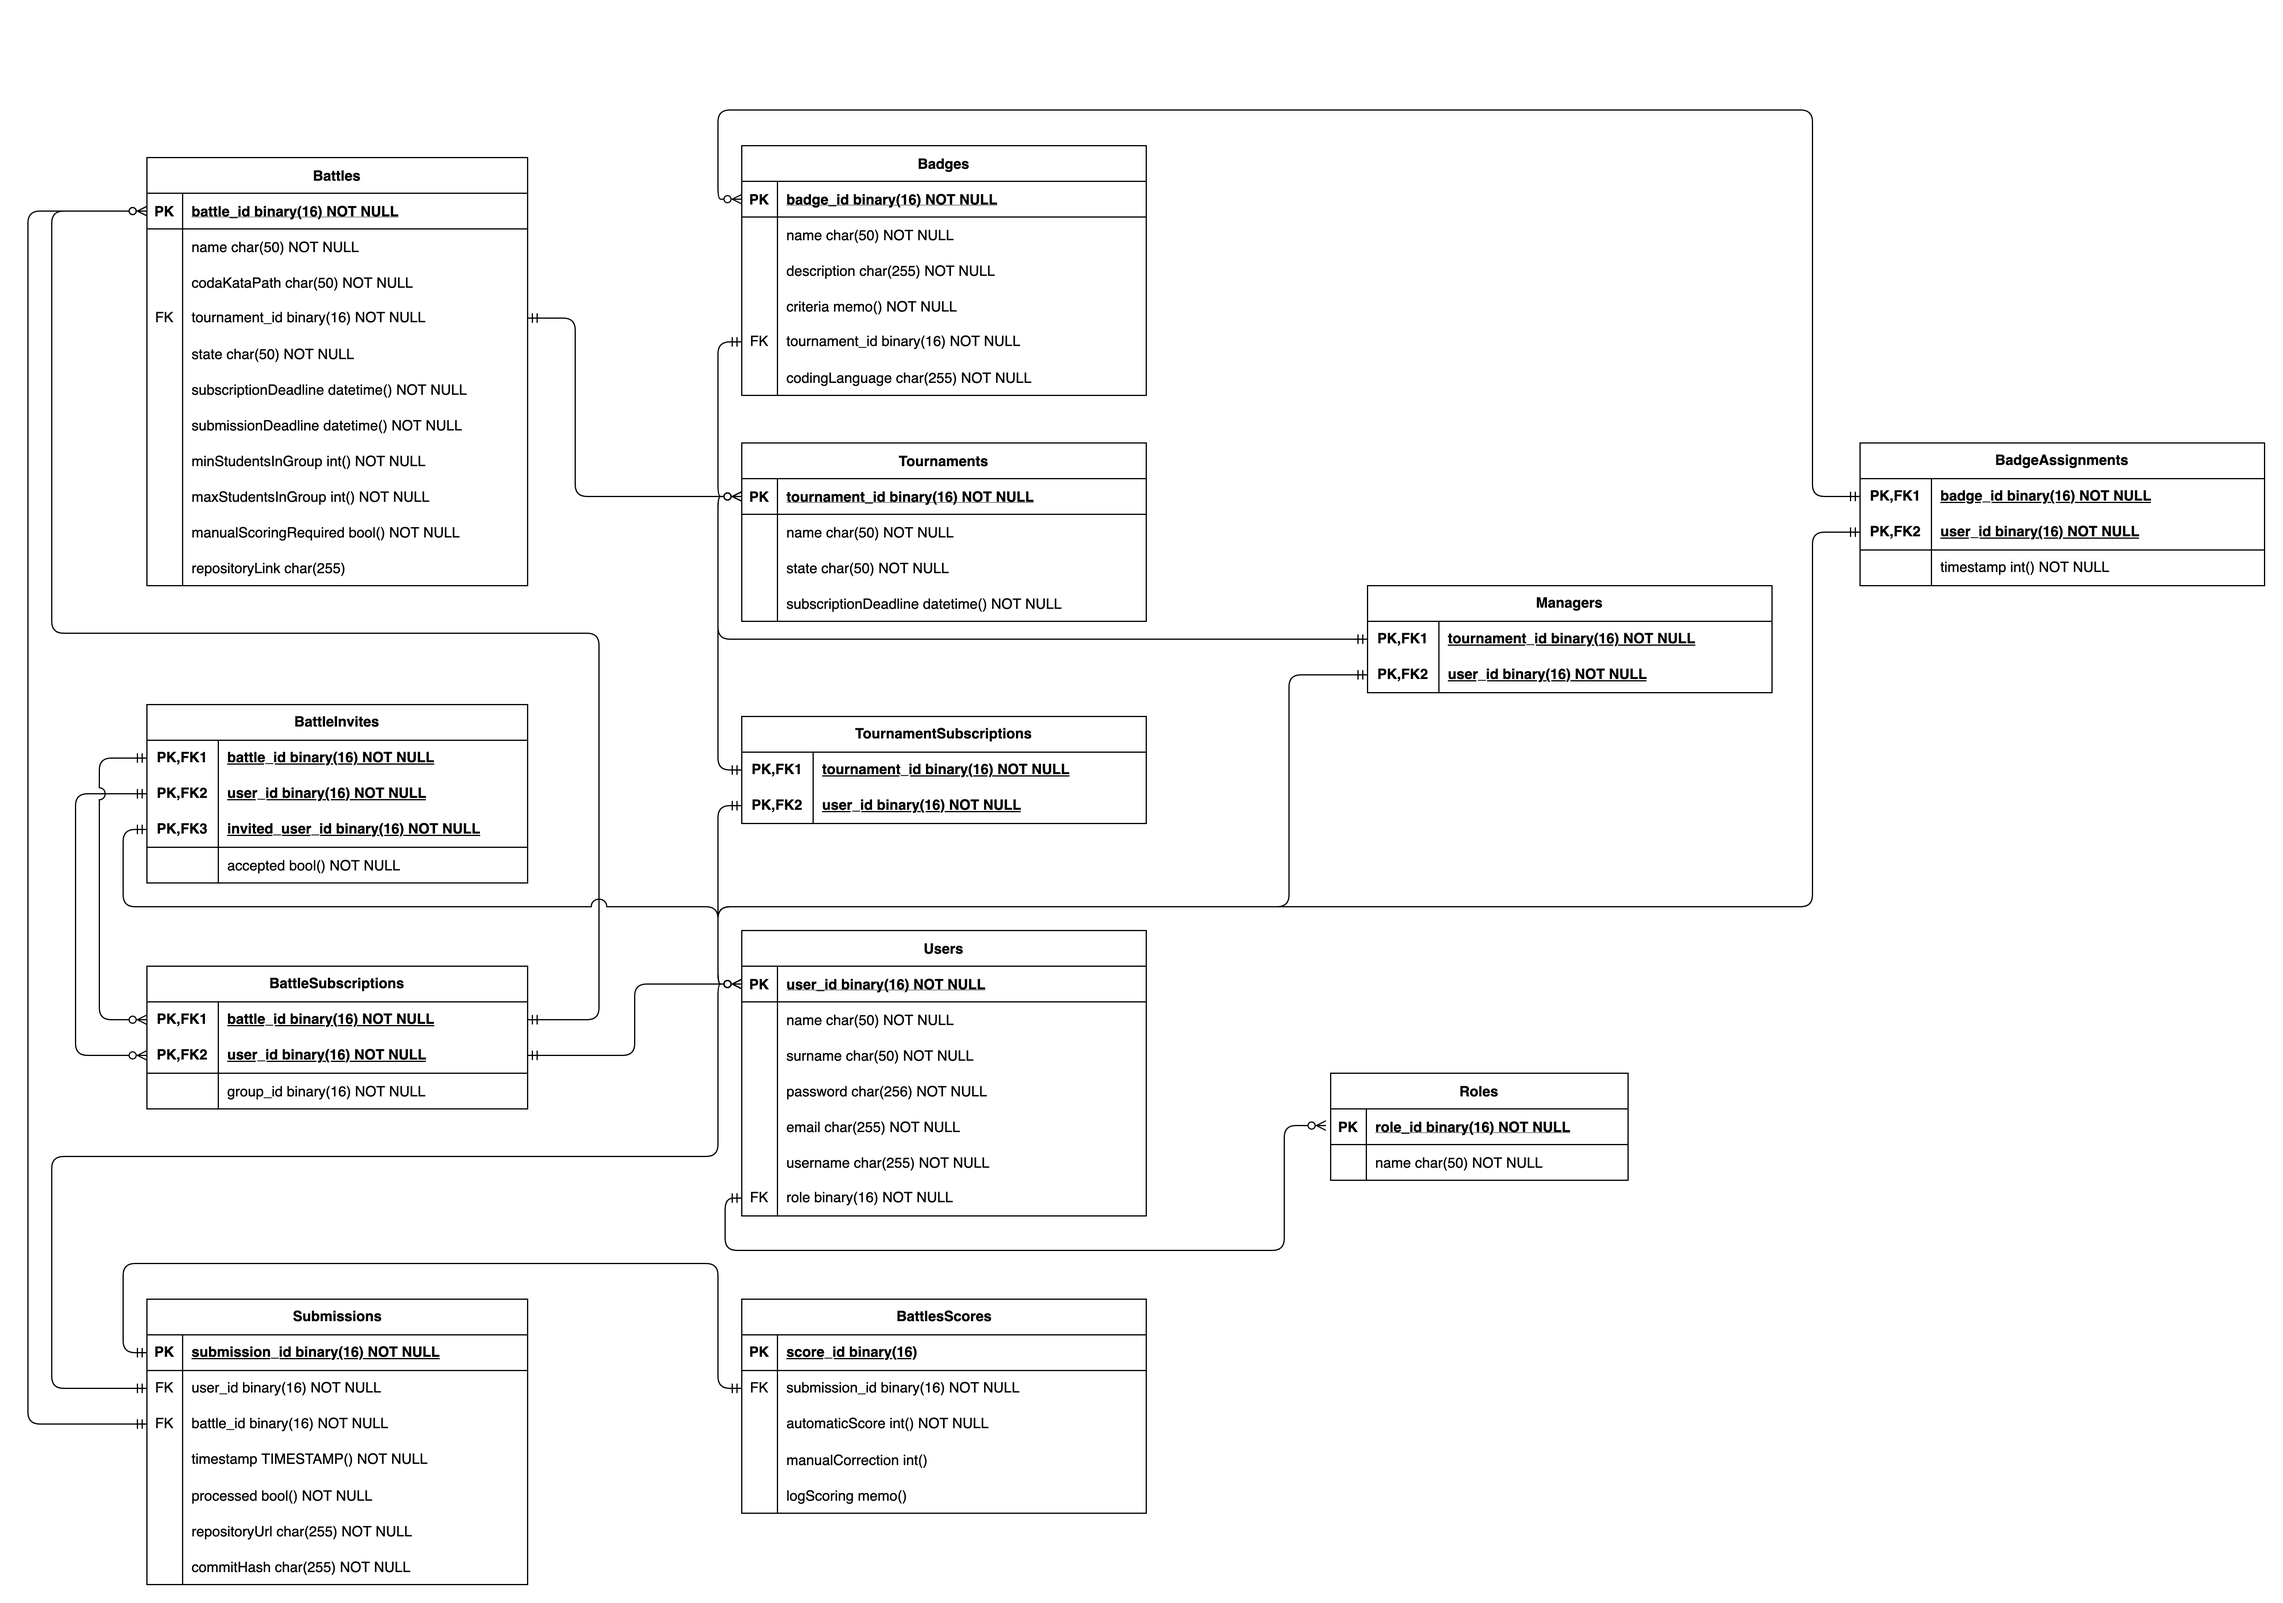
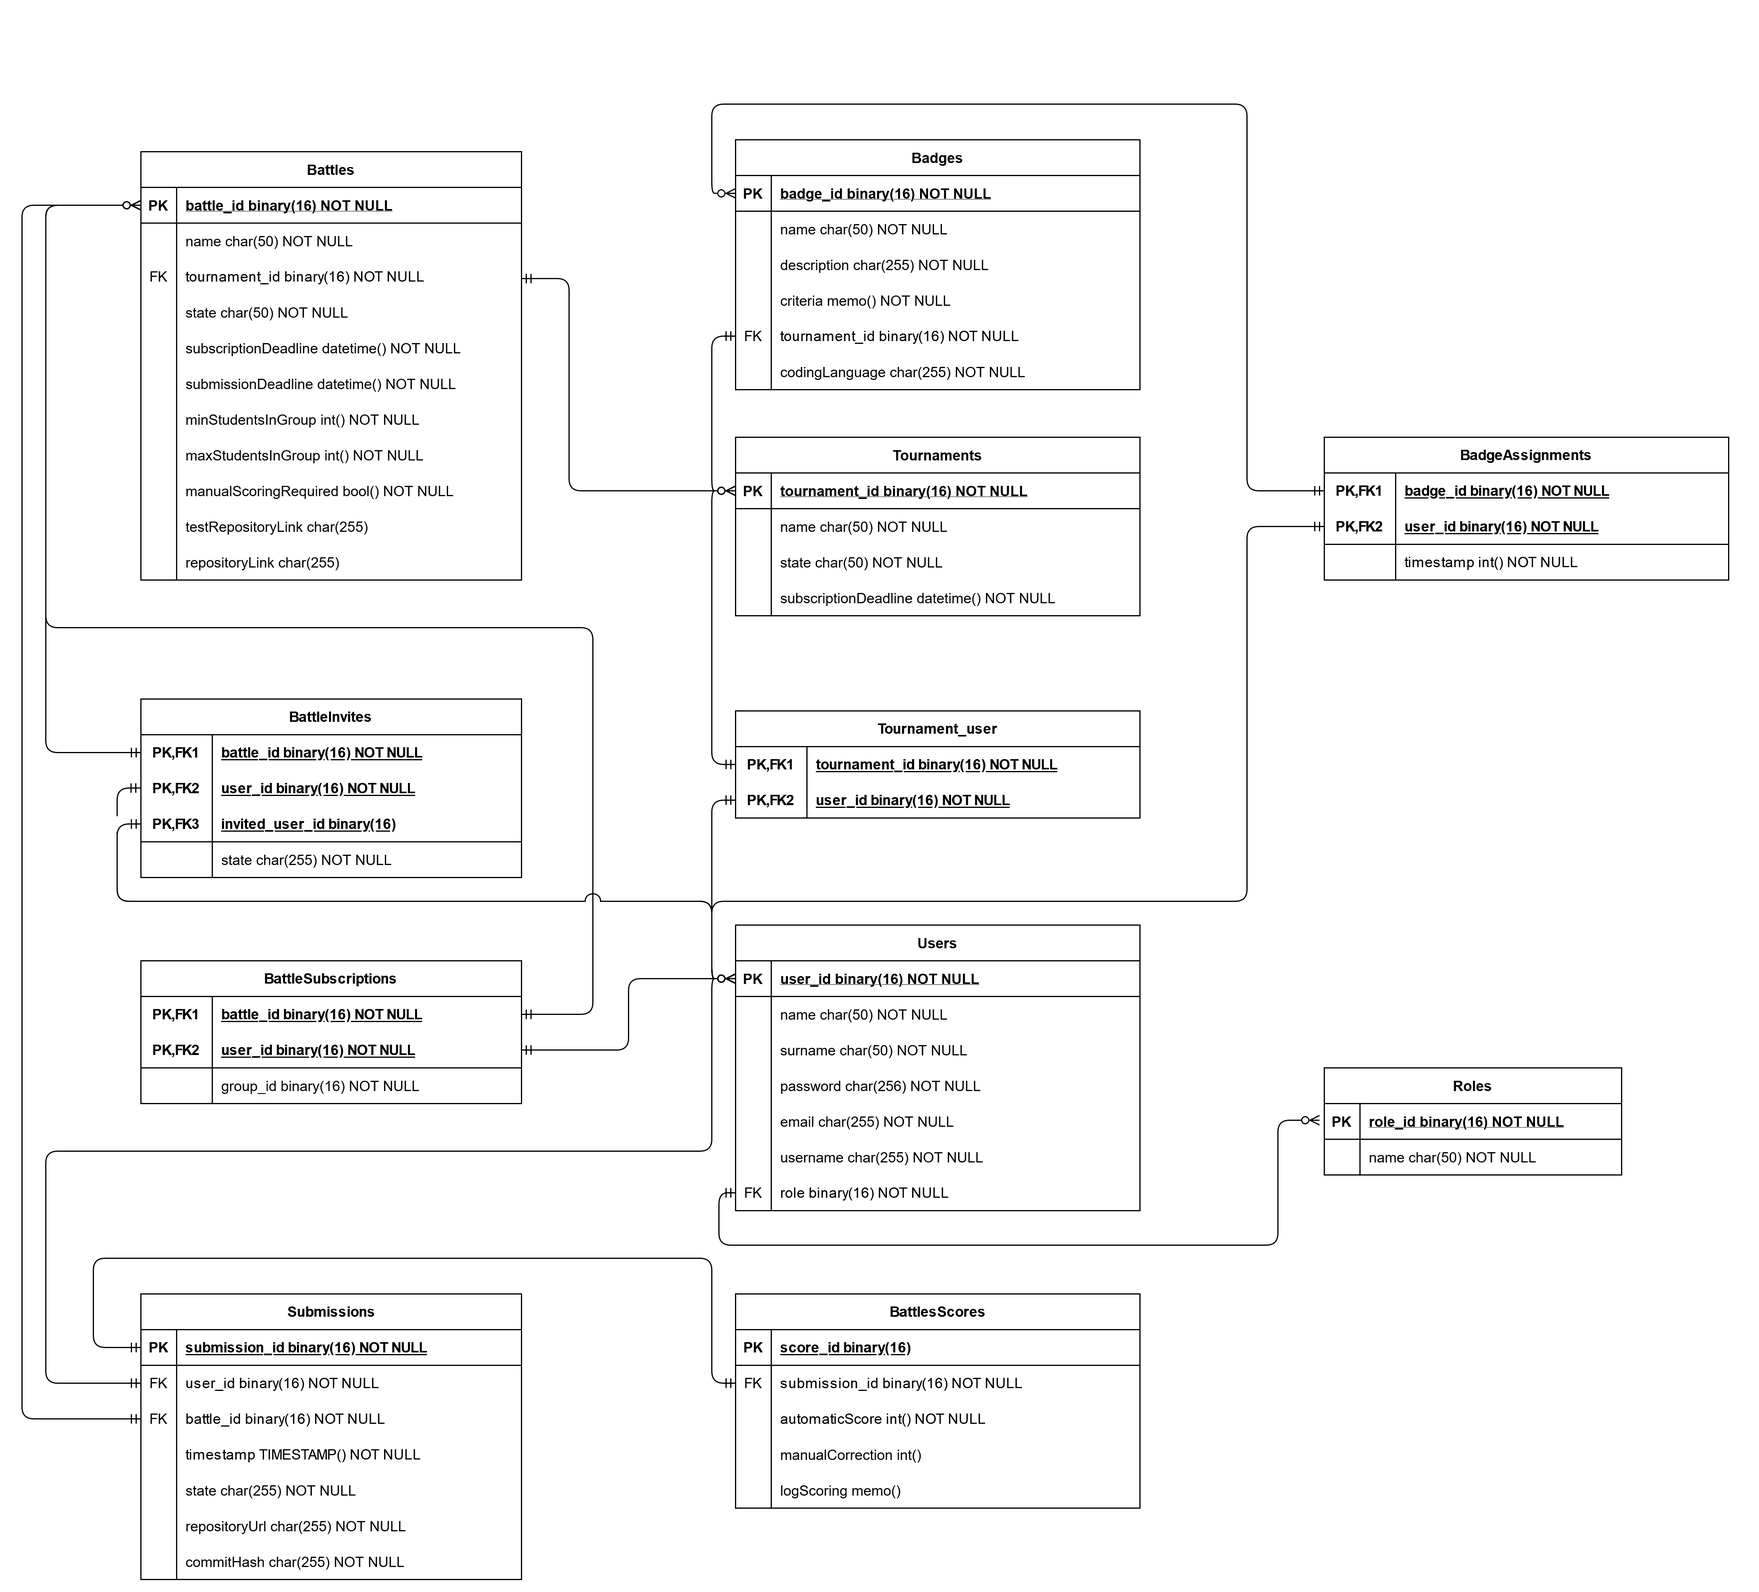
Updated DD

diff --git a/DD/DD_latex/DD.tex b/DD/DD_latex/DD.tex
@@ -240,13 +240,16 @@ The design document aims to explain in detail how we plan to build our system to
     \toprule
     Revised on & Version & Description \\
     \midrule
-    7-Gen-2023 & 1.0 & Initial Release of the document \\
+    7-Gen-2024 & 1.0 & Initial Release of the document \\
+    \midrule
+    4-Feb-2024 & 2.0 & Adjustments implemented to conform to ITD Prototype. Altered logical design of database, leading to revised diagrams. Modified URL structure of some endpoints to comply with Spring standards. \\
     \bottomrule
 \end{tabularx}
-\vspace{0.33pt}
 
 {\color{bluepoli}\rule{\linewidth}{0.1pt}}
 
+\newpage
+{\color{bluepoli}\rule{\linewidth}{0.1pt}}
 \section{Reference Documents}
 
 \begin{itemize}
@@ -333,15 +336,13 @@ In this section the ER diagram of CKB's data is shown. An ER diagram is a graphi
 
 \begin{figure}[H]
 \centering
-\includegraphics[scale = 0.3]{Images/diagrams/ER_Diagram.png}\\
+\includegraphics[scale = 0.4]{Images/diagrams/ER_Diagram.png}\\
 \caption{ER Diagram of the ckbSP subsystem}
 \end{figure}
 
-Additional constraints and triggers must be established in the database management system to ensure data coherence and consistency.
+Additional constraints must be established in the database management system to ensure data coherence and consistency.
 
-When a battle deadline is reached and its status changes, a trigger should be implemented. This trigger will verify that each group meets the minimum required number of Students. Groups failing to meet this requirement will be automatically unsubscribed from the Battle.
-
-Furthermore, constraints are necessary to maintain role-specific restrictions. Educators must not be included in Battle subscriptions and invitations, and students should not be allowed to manage Tournaments.
+When a battle deadline is reached and its status changes, pending invites and groups that have not reached the minimum number of students should be rejected.
 
 Another important constraint is to prevent Users from being enrolled in the same Battle under different groups. This combination of triggers and constraints is crucial for upholding data integrity and consistency in the system.
 
@@ -642,7 +643,6 @@ In this section the API endpoints are presented. The focus is on the method used
     \item[200 Response:] UserObject + token
     \item[400 Response:] String (“eMail not valid, “Password must contain at least 8 characters (at least one uppercase), at least 1 special symbol and at least 1 number”)
     \item[401 Response:] error: String (“Email or Password are wrong”)
-    \item[410 Response:] error: String (“User not verified. Register a new account.”)
 \end{description}
 
 \subsubsection{POST api/user/register}
@@ -654,18 +654,23 @@ In this section the API endpoints are presented. The focus is on the method used
 
 \subsubsection{GET api/tournaments}
 \begin{description}
-    \item[Request Parameters:] state: String \{optional\}
-    \item[200 Response:] ongoingTournaments: Array of Objects
+    \item[200 Response:] All Tournaments: Array of Objects
     \item[401 Response:] error: String (“Unauthorized”)
 \end{description}
 
-\subsubsection{GET api/tournaments/created}
+\subsubsection{GET api/tournaments/state/\{state\}}
 \begin{description}
-    \item[200 Response:] createdTournaments: Array of Objects
+    \item[Request Parameters:] state: String
+    \item[200 Response:] All Tournaments in state {state}: Array of Objects
+    \item[401 Response:] error: String (“Unauthorized”)
+\end{description}
+
+\subsubsection{GET api/tournaments/managed}
+\begin{description}
+    \item[200 Response:] managedTournaments: Array of Objects
     \item[400 Response:] error: String (“Invalid or missing tournamentId”)
     \item[401 Response:] error: String (“Unauthorized”)
 \end{description}
-
 
 \subsubsection{GET api/tournaments/enrolled}
 \begin{description}
@@ -674,41 +679,42 @@ In this section the API endpoints are presented. The focus is on the method used
     \item[401 Response:] error: String (“Unauthorized”)
 \end{description}
 
-\subsubsection{POST api/tournaments/enroll}
+\subsubsection{POST api/tournaments/create}
 \begin{description}
-    \item[Request Body:] tournamentId: int, token : String
-    \item[200 Response:] String("User enrolled")
-    \item[400 Response:] error :String("Invalid parameters"
+    \item[Request Body:] tournament : Object
+    \item[200 Response:] createdTournament: Array of Objects
+    \item[400 Response:] error: String (“Invalid or missing tournamentId”)
     \item[401 Response:] error: String (“Unauthorized”)
 \end{description}
-
-\subsubsection{POST api/battles/enroll}
-\begin{description}
-    \item[Request Body:] BattlesId: int, token : String
-    \item[200 Response:] String("User enrolled")
-    \item[400 Response:] error :String("Invalid parameters"
-    \item[401 Response:] error: String (“Unauthorized”)
-\end{description}
-
 
 \subsubsection{GET api/tournaments/\{tournamentId\}}
 \begin{description}
+    \item[Request Parameters:] tournamentId: int
     \item[200 Response:] tournament: Object
     \item[400 Response:] error: String (“Invalid or missing tournamentId”)
     \item[401 Response:] error: String (“Unauthorized”)
 \end{description}
 
-\subsubsection{GET api/tournaments/\{tournamentId\}/battles}
+\subsubsection{POST api/tournaments/\{tournamentId\}/enroll}
 \begin{description}
-    \item[Request Parameters:] state: String \{optional\}
-    \item[200 Response:] battles: Array of Objects
-    \item[400 Response:] error: String (“Invalid or missing tournamentId”)
+    \item[Request Parameters:] tournamentId: int
+    \item[200 Response:] String("User enrolled")
+    \item[400 Response:] error :String("Invalid parameters")
     \item[401 Response:] error: String (“Unauthorized”)
 \end{description}
 
-\subsubsection{GET api/tournaments/\{tournamentId\}/battles/created}
+\subsubsection{POST api/tournaments/\{tournamentId\}/close}
 \begin{description}
-    \item[200 Response:] createdBattles: Array of Objects
+    \item[Request Parameters:] tournamentId: int
+    \item[200 Response:] String("Tournament closed")
+    \item[400 Response:] error :String("Invalid parameters")
+    \item[401 Response:] error: String (“Unauthorized”)
+\end{description}
+
+\subsubsection{GET api/tournaments/\{tournamentId\}/battles}
+\begin{description}
+    \item[Request Parameters:] tournamentId: int
+    \item[200 Response:] battles: Array of Objects
     \item[400 Response:] error: String (“Invalid or missing tournamentId”)
     \item[401 Response:] error: String (“Unauthorized”)
 \end{description}
@@ -720,11 +726,26 @@ In this section the API endpoints are presented. The focus is on the method used
     \item[401 Response:] error: String (“Unauthorized”)
 \end{description}
 
-
 \subsubsection{GET api/tournaments/\{tournamentId\}/ranking}
 \begin{description}
     \item[200 Response:] ranking: Array of Objects
     \item[400 Response:] error: String (“Invalid or missing tournamentId”)
+    \item[401 Response:] error: String (“Unauthorized”)
+\end{description}
+
+\subsubsection{POST api/tournaments/\{tournamentId\}/createBattle}
+\begin{description}
+    \item[Request Body:] battle : Object
+    \item[200 Response:] message: String "Battle created successfully."
+    \item[400 Response:] error: String("Missing values", "Values not valid")
+    \item[401 Response:] error: String (“Unauthorized”)
+\end{description}
+
+\subsubsection{POST api/battles/enroll}
+\begin{description}
+    \item[Request Body:] BattlesId: int, InvitedUsernames: String
+    \item[200 Response:] String("User enrolled")
+    \item[400 Response:] error :String("Invalid parameters")
     \item[401 Response:] error: String (“Unauthorized”)
 \end{description}
 
@@ -742,6 +763,20 @@ In this section the API endpoints are presented. The focus is on the method used
     \item[401 Response:] error: String (“Unauthorized”)
 \end{description}
 
+\subsubsection{GET api/battles/\{battleId\}/getGitHubToken}
+\begin{description}
+    \item[200 Response:] token: String
+    \item[400 Response:] error: String (“Invalid or missing BattleId”)
+    \item[401 Response:] error: String (“Unauthorized”)
+\end{description}
+
+\subsubsection{GET api/battles/acceptInvitation/\{token\}}
+\begin{description}
+    \item[300 Response:] redirectToHomePage
+    \item[400 Response:] error: String (“Invalid or missing BattleId”)
+    \item[401 Response:] error: String (“Unauthorized”)
+\end{description}
+
 \subsubsection{GET api/battles/\{battleId\}/ranking}
 \begin{description}
     \item[200 Response:] ranking: Array of Objects
@@ -749,72 +784,51 @@ In this section the API endpoints are presented. The focus is on the method used
     \item[401 Response:] error: String (“Unauthorized”)
 \end{description}
 
-\subsubsection{POST api/battles/\{battleId\}/commit}
+\subsubsection{POST api/battles/commit}
 \begin{description}
-    \item[Request Body:] commit Object
+    \item[Request Header:] custom JWT Token on purpose for the endpoint
+    \item[Request Body:] commitHash : String, repositoryUrl : String
     \item[400 Response:] error: String (“Invalid or missing BattleId”)
     \item[401 Response:] error: String (“Unauthorized”)
 \end{description}
 
-\subsubsection{POST api/tournaments/create}
+\subsubsection{POST api/battles/\{battleId\}/closeBattle}
 \begin{description}
-    \item[Request Body:] educatorId: int, tournamentName: String, registrationDeadline: Date, badges: Array of Objects, educatorsInvited: Array of Strings
-    \item[200 Response:] message: String "Tournament created successfully."
-    \item[400 Response:] error: String("Missing values", "Values not valid")
-\end{description}
-
-\subsubsection{POST api/tournaments/close}
-\begin{description}
-    \item[Request Body:] tournamentId: int, educatorId: int
-    \item[200 Response:] message: String "Tournament closed successfully."
-    \item[400 Response:] error: String("Missing values", "Values not valid")
-\end{description}
-
-\subsubsection{POST api/tournaments/\{tournamentId\}/createBattle}
-\begin{description}
-    \item[Request Body:] educatorId: int, BattleName: String, registrationDeadline: Date, endBattleDeadline: Date, minGroupSize: int, maxGroupSize: int, codingLanguage: String, codeKata: Object
+    \item[Request Parameter:] battleId: int
     \item[200 Response:] message: String "Battle created successfully."
     \item[400 Response:] error: String("Missing values", "Values not valid")
+    \item[401 Response:] error: String (“Unauthorized”)
 \end{description}
 
-\subsubsection{POST api/battles/closeBattle}
+\subsubsection{POST api/battles/correctScore}
 \begin{description}
-    \item[Request Body:] battleId: int, token
-    \item[200 Response:] message: String "Battle created successfully."
-    \item[400 Response:] error: String("Missing values", "Values not valid")
-\end{description}
-
-\subsubsection{POST api/submissions/correctScore}
-\begin{description}
-    \item[Request Body:] submissionId: int, score: int, token
+    \item[Request Body:] submissionId: int, correction: int
     \item[200 Response:] message: String "Success"
     \item[400 Response:] error: String("Missing values", "Values not valid")
+    \item[401 Response:] error: String (“Unauthorized”)
 \end{description}
 
 
-\subsubsection{GET api/tournaments/search}
+\subsubsection{GET api/tournaments/search/\{keyword\}}
 \begin{description}
     \item[Request Parameters:] keyword: String, state: String
     \item[200 Response:] enrolledTournaments: Array of Objects
+    \item[401 Response:] error: String (“Unauthorized”)
 \end{description}
 
 \subsubsection{GET api/profile/search}
 \begin{description}
     \item[Request Parameters:] keyword: String
-\end{description}
-
-\subsubsection{PUT api/profile/personal-data}
-\begin{description}
-    \item[Request Body:] User: Object
-    \item[200 Response:] message: "Data updated successfully"
-    \item[400 Response:] error: String("Missing values", "Values not valid")
+    \item[200 Response:] profiles: Array of Objects
+    \item[401 Response:] error: String (“Unauthorized”)
 \end{description}
 
 \subsubsection{GET api/profile/\{profileId\}}
 \begin{description}
-    
+    \item[Request Parameter:] profileId: int
     \item[200 Response:] profile: object
     \item[400 Response:] error: String (“Invalid or missing profileId”)
+    \item[401 Response:] error: String (“Unauthorized”)
 \end{description}
 
 {\color{bluepoli}\rule{\linewidth}{0.1pt}}
@@ -843,6 +857,8 @@ We selected a relational database for our system design because it is effective 
 \subsection{Token-Based Authentication and Authorization}
 
 The authentication and authorization will be implemented using a token-based process. These tokens are sent to the users each time they log in and they must be included with each request that requires authentication or authorization.
+
+JWT Token will also be used to safely send invites through emails, and to identify the users GitHub Actions.
 
 \subsection{Distributed MVC Pattern}
 
@@ -1377,6 +1393,7 @@ Once the backend and the frontend have been implemented, final tests can take pl
 \subsection{Testing Technologies}
 \begin{itemize}
     \item \textcolor{bluepoli}{JUnit}: JUnit provides a modern foundation for developer-side testing on the JVM. It will be used for unit and integration testing of server side classes.
+    \item \textcolor{bluepoli}{Mockito}: Mockito is a mocking framework that allows to easily create stub and drivers to unit test each component.
     \item \textcolor{bluepoli}{Jest}: Jest is a JavaScript Testing Framework with a focus on simplicity. It will be used for unit and integration testing of client side codebase.
     \item \textcolor{bluepoli}{Postman}: Postman is an API platform for building and using APIs. It will be used to efficiently test the REST API endpoints while the front-end is still under development.
 \end{itemize}
@@ -1399,9 +1416,9 @@ This section shows the amount of time that each member has spent to produce the 
 \hline
 SetUp & Piccinato & 2h \\ [1ex]
 \hline
-Component View Diagrams & Puglisi, Piccinato, Piazzalunga & 9h \\ [1ex]
+Component View Diagrams & Puglisi, Piccinato, Piazzalunga & 11h \\ [1ex]
 \hline
-DB Schema and ER Diagram & Piazzalunga & 6h \\ [1ex]
+DB Schema and ER Diagram & Piazzalunga & 7h \\ [1ex]
 \hline
 Deployment View Diagram & Piccinato & 1h \\ [1ex]
 \hline
